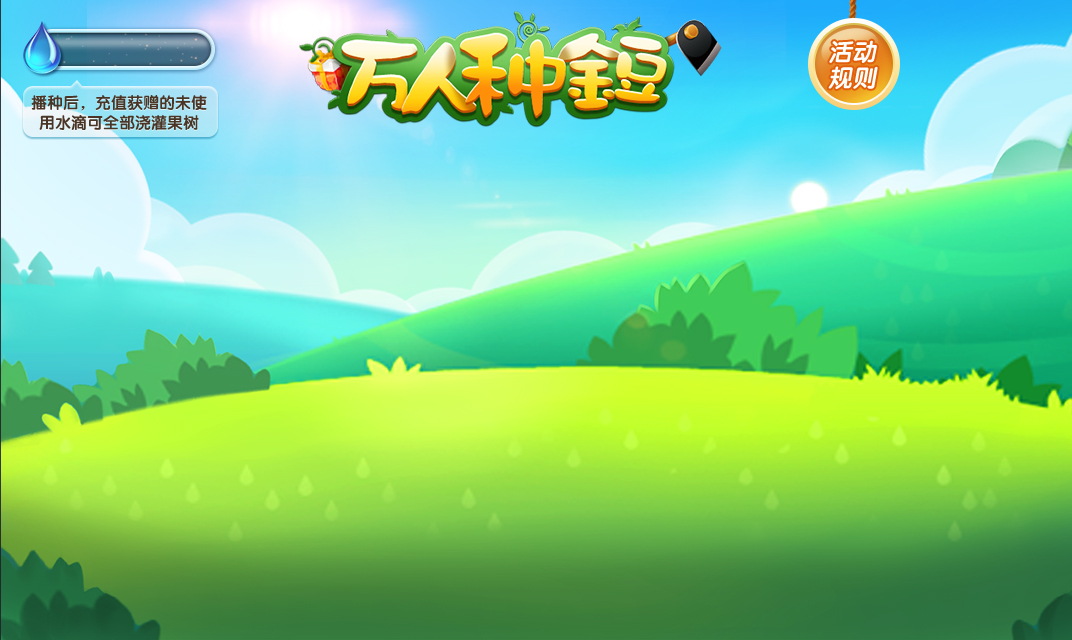
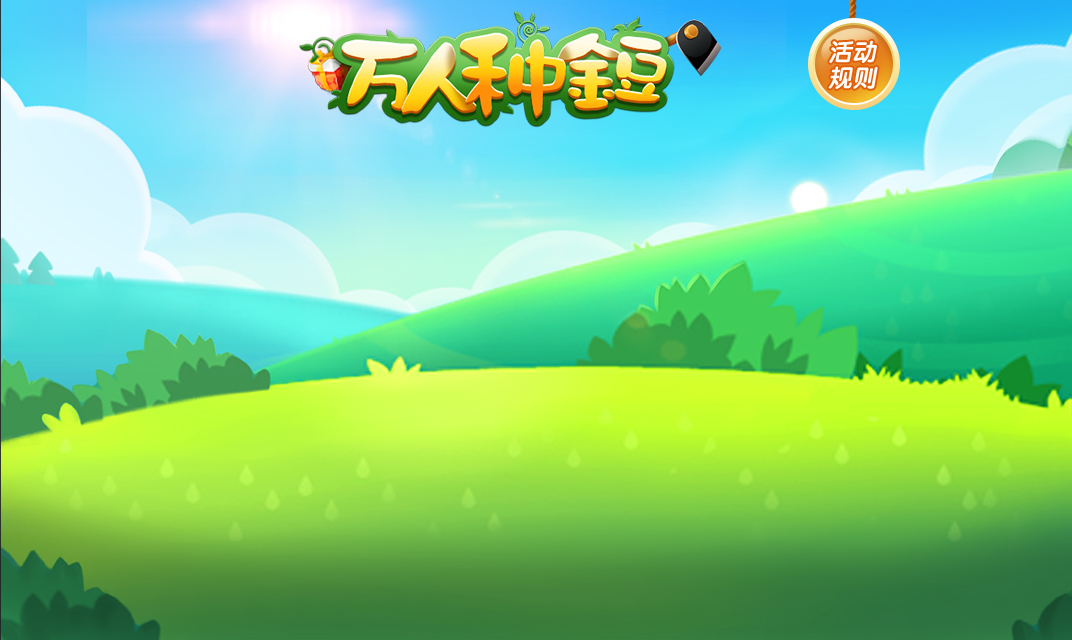
add chuiniu

Changed region(s): [[0.0, 0.0312, 0.2155, 0.2188]]

diff --git a/chuiniu1/css/chuiniu1.css b/chuiniu1/css/chuiniu1.css
@@ -1,0 +1,59 @@
+@charset "utf-8";
+body, div, a, span, img, ol, ul, li, input, p, a, h4, h3, select { padding: 0; margin: 0; }
+*{ margin:0; padding:0; -webkit-tap-highlight-color: transparent;}
+body { font-family: "Microsoft Yahei"; color:#fff;}
+body, html{ overflow:hidden; border:0; border:none; }
+html{overflow:hidden;}
+img { vertical-align: middle; border: 0 none; }
+a{ cursor: pointer;color: #fff; text-decoration: none;}
+a:hover,a:focus{  outline: none; }
+i{ font-style: normal;}
+ul, li { list-style: none; }
+ol{ padding-left:25px;}
+ol li{ list-style: decimal;}
+em, i{ font-style:normal;}
+.text-center { text-align:center; }
+.text-indent{text-indent: 2em;}
+.pull-left { float: left; }
+.pull-right { float: right; }
+.relative { position: relative; }
+.clearfix:after { content: "."; display: block; height: 0; font-size: 0; clear: both; visibility: hidden; }
+.clearfix { *zoom: 1; }
+.Yahei{font-family: "Microsoft Yahei";}
+.text-yellow{ color:#ba390c ;}
+.text-yellow1{color:#ffea34;}
+.text-green{ color:#22ac38;}
+.text-blue{ color:#3366cc;}
+.text-white1{ color:#ffc1b3;}
+.text-red{ color:#fec1c1;}
+.text-red1{ color:#660700;}
+.text-orange { color:#b94c02;font-weight: bold;}
+.text-white{ color:#fff;}
+.text-underline{ text-decoration:underline;}
+.font16{ font-size:0.16rem;}
+.font18{ font-size:0.18rem;}
+.font24{ font-size:0.24rem;} 
+
+.font60{ font-size:0.60rem;}
+.font48{ font-size:0.48rem;} 
+.font36{ font-size:0.36rem;}
+.font20{ font-size:0.20rem;}
+/*public*/ 
+
+.warp{overflow: hidden; width:12.8rem; background-color:#d54134; position:relative; }
+.left{ float:left; width:2.64rem; height:6.4rem; background:url(../images/chuiniu1/left_bg.jpg) center/cover no-repeat;}
+
+.navBox{  position: relative; z-index: 8; padding-top:.03rem;}
+.navBox a{ display:block; position:relative; margin-left: 0.05rem; font-size:0.32rem; font-weight:500; text-align: center; line-height:1.15rem; color: #476E65; width:2.54rem; height:1.26rem;background:url(../images/chuiniu1/nav_chuiniu.png) no-repeat 0 0;background-size: 100% 100%; -webkit-background-size: 100% 100%;}
+.navBox a span{position: absolute; width:0.8rem; height: 0.81rem; top:0.03rem;left:0.01rem;}
+
+.navBox a .icon_hot{background:url(../images/chuiniu1/icon_hot.png) no-repeat 0 0; background-size: 100% 100%; -webkit-background-size: 100% 100%;}
+.navBox a .icon_new{background:url(../images/chuiniu1/icon_new.png) no-repeat 0 0;background-size: 100% 100%; -webkit-background-size: 100% 100%;}
+.navBox a.active{color: #D60808;background:url(../images/chuiniu1/nav_chuiniuOn.png) no-repeat 0 0;background-size: 100% 100%; -webkit-background-size: 100% 100%;margin-bottom: 4px;}
+
+.right{ float:right; width:10.16rem; height:6.4rem; position: relative;}
+.right{width:10.16rem;height: 6.4rem;background: url(../images/chuiniu1/right_bg.jpg) center/cover no-repeat;}
+.rightMain{margin-left: .02rem;padding: .08rem; width: 9.94rem; height: 6.2rem; background: #E7E4DB; border-radius: .12rem;-webkit-border-radius: .12rem; }
+.rightMain img{width: 9.94rem; height:6.20rem;}
+
+

diff --git a/new/css/style.css b/new/css/style.css
@@ -51,10 +51,20 @@ h1,h2,h3,h4,h5,h6,em,i{ font-style: normal;}
 .right{width: 10.72rem; float: right; height: 6.40rem; position:relative;}
 .right .rightMain{width: 100%; height: 100%;}
 .right .zhongshu{background: url(../images/zhongshu-bg.jpg) center/100% 100% no-repeat;}
-.rightMain .zhongshu-rain{width:1.50rem; height: .33rem; font-size: .25rem; line-height: .33rem;position:absolute; top: .33rem; left: .58rem; text-align: center; font-weight: bold; color: #fff;}
-.rightMain .zhongshu-rule{width: .92rem; height: .92rem; position: absolute;top: .18rem; right: 1.72rem; border-radius: 50%;}
+.rightMain .zhongshu-rain{position: relative; z-index: 99; width:1.97rem;height:1.19rem;float:left;margin:.25rem 0 0 .35rem; background:url(../images/zhongshu-rain.png) center/contain no-repeat;}
+.rightMain .zhongshu-rain p{font-size: .25rem;line-height:.33rem;height:.33rem; margin:.11rem 0 0 .22rem; text-align:center;font-weight:500;color:#fff;}
+/* .rightMain .zhongshu-rain{width:1.50rem; height: .33rem; font-size: .25rem; line-height: .33rem;position:absolute; top: .33rem; left: .58rem; text-align: center; font-weight: bold; color: #fff;} */
+.rightMain .rule-btn{width: .92rem; height: .92rem; position: absolute;top: .18rem; right: 1.72rem; border-radius: 50%;}
 
-.zhongshu-action{position: relative; }
+.zhongshu-action{position: relative; width: 100%; height: 100%;}
 .zhongshu-action li{display: none;}
 .zhongshu-action li.active{display: block;}
-.zhongshu-action .nothing{outline: 1px solid red; width: 4.37rem; height: 5.05rem;}
+.zhongshu-action .nothing{width: 4.37rem; height: 4.15rem; background: url(../images/nothing-bg.png) center/100% 100% no-repeat; position: absolute; left: .53rem; bottom: .26rem;}
+.zhongshu-action .nothing .plant{width:2.13rem;height:.72rem;position:absolute;bottom:.05rem;left:.93rem;border-radius:.35rem;}
+
+.water{width: 100%; height: 100%; position: relative;}
+.water li{display: none;}
+.water li.active{display: block;}
+.water .w-putong{position: absolute; width: 5.13rem; height: 4.31rem; left: 1.09rem; bottom: 0; background: url(../images/w-putong.png) center/ 100% 100% no-repeat;}
+.water .w-youzhi{position: absolute; width: 4.84rem; height: 4.61rem; left: 1.09rem; bottom: 0; background: url(../images/w-youzhi.png) center/ 100% 100% no-repeat;}
+.water .w-dingji{position: absolute; width: 5.06rem; height: 4.12rem; left: 1.09rem; bottom: 0; background: url(../images/w-dingji.png) center/ 100% 100% no-repeat;}

diff --git a/chuiniu1/chuiniu1.html b/chuiniu1/chuiniu1.html
@@ -1,0 +1,50 @@
+<!DOCTYPE html PUBLIC "-//W3C//DTD XHTML 1.0 Transitional//EN" "http://www.w3.org/TR/xhtml1/DTD/xhtml1-transitional.dtd">
+<html xmlns="http://www.w3.org/1999/xhtml">
+<head>
+<meta http-equiv="Content-Type" content="text/html; charset=utf-8" />
+<title></title>
+<meta name="viewport" content="width=device-width, initial-scale=1.0, maximum-scale=1.0, user-scalable=no" />
+<meta name="apple-mobile-web-app-capable" content="yes" />
+<meta content="black" name="apple-mobile-web-app-status-bar-style" />
+<meta content="telephone=no" name="format-detection" />
+<meta content="email=no" name="format-detection" />
+<title>捕鱼排行</title>
+<link rel="stylesheet" type="text/css" href="css/chuiniu1.css" />
+<script type="text/javascript">
+  //初始化REM   
+  
+        var setFontSize = function(){  
+            var width = document.documentElement.clientWidth;  
+            width = width > 1280 ? 1280: width;  
+            var fontSize = width/1280 * 100;  
+            document.getElementsByTagName("html")[0].style.fontSize = fontSize + "px";
+        }  
+        setFontSize();
+        window.onresize = setFontSize;
+</script>
+</head>
+
+<body>
+<div class="warp"> 
+  <!-- 左边导航-->
+    <div class="left Yahei">
+        <div class="navBox">
+            <a class="active"  href="chuiniu.html"><span class="icon_hot"></span>全民来吹牛</a>
+            <a class=""  href="#"><span class="icon_new"></span>组局抽红包</a>
+            <a class=""  href="#"><span class=""></span>邀请赚房卡</a>
+            <a class=""  href="#"><span class=""></span>分享赠房卡</a>
+        </div>
+    </div>
+    <!--左边end-->
+
+     <!--右边  -->
+    <div class="right">
+        <div class="rightMain">
+            <img src="images/chuiniu1/chuiniu_bg.png" alt="">
+        </div>
+    </div>
+</div>
+
+</body>
+</html>
+

diff --git a/new/index.html b/new/index.html
@@ -36,16 +36,18 @@
         <!-- 右边 -->
         <div class="right">
             <div class="rightMain zhongshu">
-                <p class="zhongshu-rain">9,999,999</p>
-                <div class="zhongshu-rule btn"></div>
+                <div class="zhongshu-rain">
+                    <p>9,999,999</p>
+                </div>
+                <div class="btn rule-btn"></div>
                 <ul class="zhongshu-action">
-                    <li class="nothing active">
-                        <div class="btn plant"></div>
+                    <li class="nothing">
+                        <div class="btn plant-btn"></div>
                     </li>
-                    <li class="water">
+                    <li class="water active">
                         <ul>
                             <li class="w-putong"></li>
-                            <li class="w-youzhi"></li>
+                            <li class="w-youzhi active"></li>
                             <li class="w-dingji"></li>
                         </ul>
                     </li>
